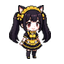
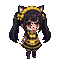
fix: メイド服スキンの肌(顔)が透過する不具合を修正 (Ver.1.324)
ゲーム内でキャラの顔・肌の部分が透けて背景が見えていた。原因は、スキン素材の
薄い肌色ピクセルが、生成時の白抜き処理(gradedWhiteKey)等で「背景」と誤認され
アルファ0(透明)にされていたこと（特に skin_maid_idle の顔に顕著。RGB＝色は
残っていたためアルファだけ欠落）。

修正: tools/opacify-skin.mjs を新規追加。画像の縁から繋がる透明=本物の背景だけ
透明のまま残し、キャラ内部の「囲まれた透明穴」を不透明化する（二値アルファ）。
内部のRGB(色)は不変、輪郭はクリスプ化。skin_maid 全7コマに適用。

検証: マゼンタ背景に乗せて顔・肌が透けないこと、脚の間など本来の隙間のみ透明で
あること、通常(空色)背景で崩れが無いことを確認。

diff --git a/games/piyo-adventure/index.html b/games/piyo-adventure/index.html
@@ -79,7 +79,7 @@
                 box-sizing: border-box;
             }
             body::after {
-                content: "Ver.1.323";
+                content: "Ver.1.324";
                 position: fixed;
                 bottom: 8px; right: 10px;
                 color: rgba(255,255,255,0.5);
@@ -755,7 +755,7 @@
                     color: #fff; font-size: clamp(7px, 1.2vw, 12px);
                     text-shadow: 2px 2px 4px rgba(0,0,0,0.8);
                     font-weight: bold;">
-                    <span style="background: rgba(0,0,0,0.4); padding: 2px 6px; border-radius: 5px;">Ver.1.323</span>
+                    <span style="background: rgba(0,0,0,0.4); padding: 2px 6px; border-radius: 5px;">Ver.1.324</span>
                 </div>
 
                 <!-- アップデートボタン：右上 -->

diff --git a/games/piyo-adventure/sw.js b/games/piyo-adventure/sw.js
@@ -1,4 +1,4 @@
-var CACHE_NAME = 'piyo-adventure-v1.323';
+var CACHE_NAME = 'piyo-adventure-v1.324';
 var STATIC_ASSETS = [
     './',
     './index.html',
